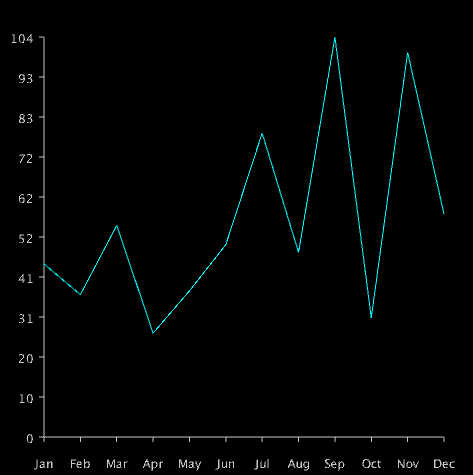
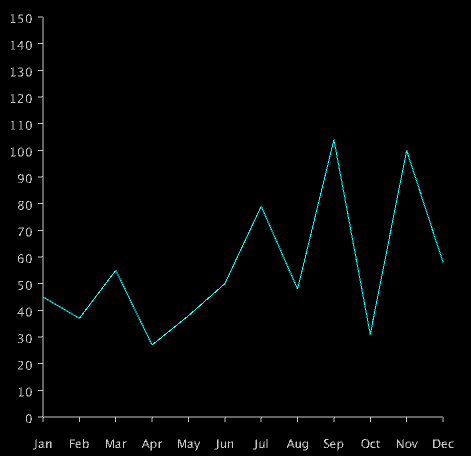
Various fixes

diff --git a/README.md b/README.md
@@ -299,8 +299,8 @@ Here is what you can try and make today:
 These are the steps I suggest you follow:
 
 - Figure out how to draw a trend line graph first
-- Then figure out how to scale it so that it fits the screen
 - Then figure out how to leave horizontal and vertical borders around the graph
+- Then figure out how to scale it so that it scales the data when drawing to the range 0-150. You could make this a variable 
 - Then figure out how to draw the horizontal axis. This will be a for loop obviously. You might find the following Java/Processing methods useful:
   - [textAlign](https://processing.org/reference/textAlign_.html)
   - [substring](http://www.tutorialspoint.com/java/java_string_substring.htm)
@@ -310,7 +310,7 @@ Try and parameterise as much of your sketch with variables, so that you could re
 For example, I found it useful to write a method:
 
 ```Java
-void drawAxis(float[] data, String[] labels, int intervals, float border)
+void drawAxis(float[] data, String[] horizLabels, int verticalIntervals, int maxVertical, float border)
 ```
 
 to draw the horizontal and vertical axes. You might like to write seperate methods for the horizontal and vertical axis. 
